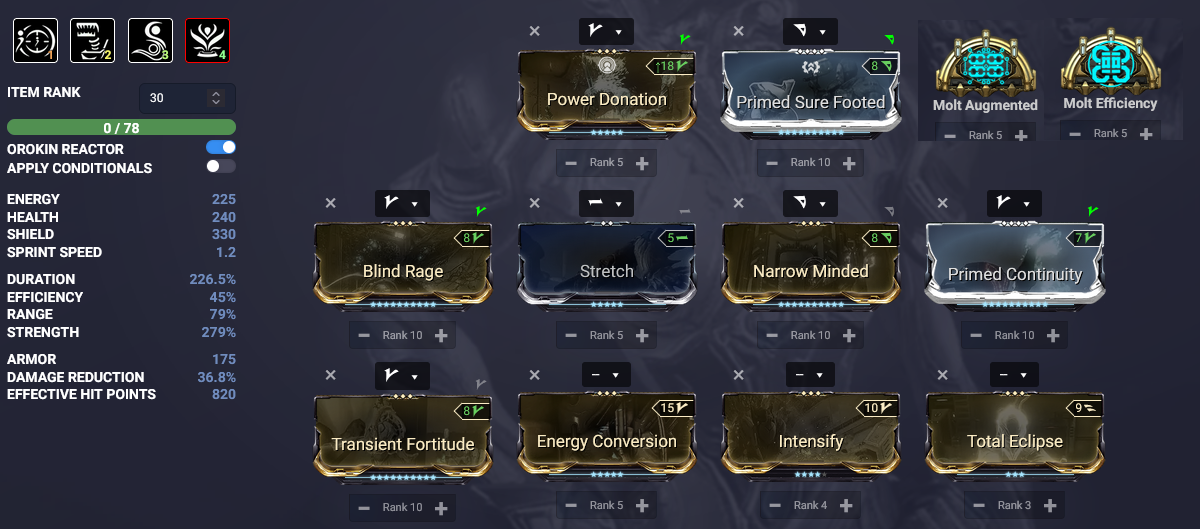
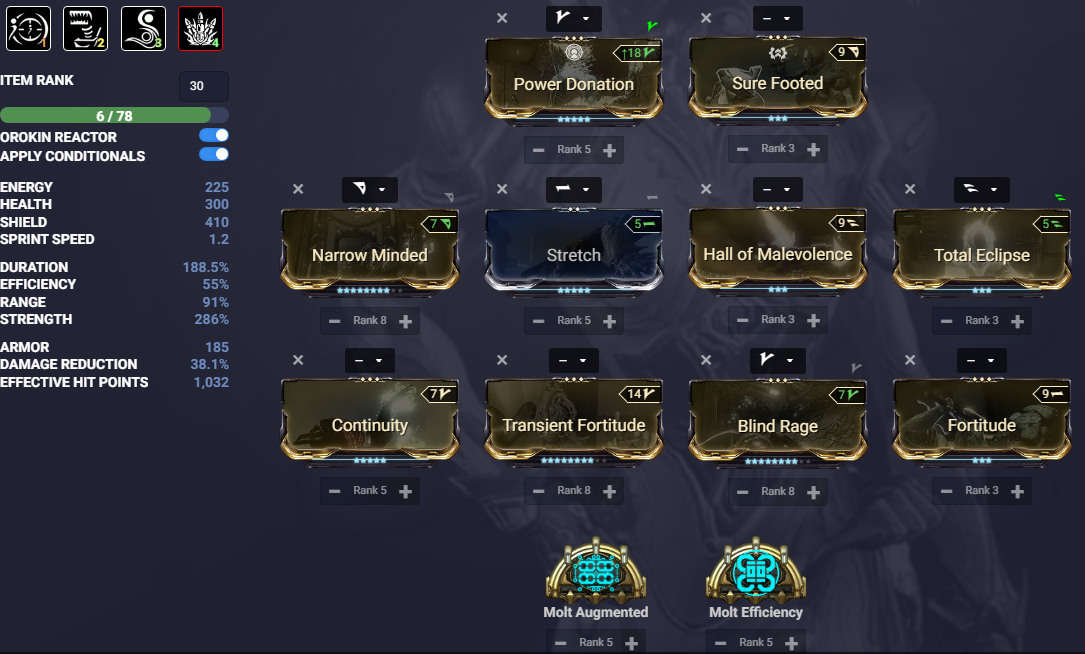
Koumei release (#4)
* Koumei and Five Fates Update

Added minimum requirement builds and  replaced Smeeta with Sly Vulpaphyla build.

* Update FocusSchools.md

diff --git a/_guides/Arbitrations/Summary.md b/_guides/Arbitrations/Summary.md
@@ -1,11 +1,17 @@
 # Summary
 ## Basic Strategy
 
-The goal of [Arbitrations] is to kill enemies as quickly as you can after they spawn, as more kills per minute will equal more [Vitus Essence]. [Arbitration Drones][Arbitration Shield Drone] (which drop vitus essence) will spawn up to a maximum of 5 alive on the map at once, so **fast kills = more loot** and that's the gist of it. You'll be running a lot of Power strength + Ability duration and applying a lot of buffs to yourself and your team so even in very long runs you'll still be killing every enemy with one shot. Your team will set up on one point of the map from where you can see all spawns and you'll shoot at enemy spawn points from that point of the map, everyone will stay at this point of the map and only leave to go pick up loot between rounds after which you will come back to this point of the map to refresh all your buffs. Sometimes people will also have to run to a spawn and shoot at it if enemies are slow to leave or if the Ai gets stuck and stops moving. You’ll understand more as you play, so don’t be afraid to join up with people once you’ve got your builds straight.
+The goal of [Arbitrations] is to kill enemies as quickly as you can after they spawn, as more kills per minute will equal more [Vitus Essence]. [Arbitration Drones][Arbitration Shield Drone] (which drop vitus essence) will spawn up to a maximum of 5 alive on the map at once, so **fast kills = more loot** and that's the gist of it. You'll be running a lot of Power strength + Ability duration and applying a lot of buffs to yourself and your team so even in very long runs you'll still be killing every enemy with one shot. Your team will set up on one point of the map from where you can see all spawns and you'll shoot at enemy spawn points from that point of the map, everyone will stay at this point of the map and only leave to go pick up loot between rounds after which you will come back to this point of the map to refresh all your buffs. 
 
-The 4 main meta frames for Arbitrations are: [Saryn] (The main damage dealer), [Mirage] (Buffer + secondary damage dealer), [Chroma] (Another buffer + secondary damage dealer) and [Wisp] (A support buffer frame who will also run a support weapon that buffs your team, [Afentis] + [Sporelacer] so pick one frame to start off with and slowly try to build all of them up so you can fill in more roles for different teams you play with. The Kuva Ogris is the only weapon that's currently good for Arbitrations, as with the [Nightwatch Napalm] Augment it will leave an AOE that will keep killing enemies on spawn so that's what you'll be running on every frame that's not wisp. Make sure you enter runs AFTER you've fully built out one of these roles as incomplete builds can ruin runs.
+This guide contains some minimum requirement builds and min-maxed builds for the meta warframes.
 
-To make sure you’re getting the most out of your runs, please don’t forget to equip a [Smeeta Kavat], buy a resource booster which doubles the amount of resources you pick up as well as make sure someone on your squad has a resource drop chance booster. You can also get a resource drop chance blessing from relays if a Mastery Rank 30 player decides to give it to people, so if your teammate is MR 30 or if you’re okay to ask around in relays and wait 5 minutes then it’s well worth it to have that as well, and only the HOST needs the resource drop chance blessing.
+The 4 main meta frames for Arbitrations are: 
+ - [Saryn] (The main damage dealer) Advanced
+ - [Mirage] (Buffer + secondary damage dealer) Advanced
+ - [Chroma] (Another buffer + secondary damage dealer) Beginner friendly
+ - [Wisp] (A support buffer frame who will also run a support weapon that buffs your team) Beginner friendly
+ 
+To get more out of your Arbi's you should run with a resource booster and have a companion with [Resourceful Retriever], get a dropchance blessing before the run and have atleast 1 player with a dropchance booster in your squad. 
 
 Don't press Tab during Arbi to view the Scoreboard since this can cause Hostmigrations
 {: .important }

diff --git a/_guides/Arbitrations/index.md b/_guides/Arbitrations/index.md
@@ -30,7 +30,7 @@ Saryn and Mirage should only be played by more experienced players since almost 
 {% include_relative Frames/Mirage.md %}
 {% include_relative Frames/Chroma.md %}
 {% include_relative Frames/Wisp.md %}
-{% include_relative Frames/Volt.md %}
+
 
 # Weapons
 
@@ -44,16 +44,16 @@ Saryn and Mirage should only be played by more experienced players since almost 
 ### Secondary Advice 
 If you have [Amalgam Barrel Diffusion], make sure to pop it on whatever secondary you’re running as it gives a good parkour velocity boost when you’re rolling which really helps with looting fast.
 # Companions
-## Smeeta Kavat
-The [Smeeta Kavat](https://warframe.fandom.com/wiki/Smeeta_Kavat){:target="_blank"} can potentially be very good and help boost Vitus essence anywhere from 10% to 50% in a good run, always run this if you have it. 
-[Charm], [Animal Instinct], [Tek Enhance] and [Fetch] are the mandatory mods, Tek assault is optional but can be very nice to have.
+You can run any beast companion with the [Resourceful Retriever] mod equiped, but bond mods can give additional utility.
 
-### Basic Build
-![](media/builds_smeeta_basic.png)
+## Sly Vulpaphyla
+Sadly Martyr Symbiosis doesn't work in Arbi's, but the Sly Vulpaphyla also has [Survival Instinct] which basically gives you a mini Wisp passive boosting your survivability while looting a bit.
 
-### Advanced Build
-This build is more expensive but gives some additional utility
-![](media/builds_smeeta_advanced.png)
+### Companion Build
+
+This build is optional, but it gives some nice additional buffs and helps a bit with survivability.
+![](media/builds_sly_basic.png)
+
 
 # Gear
 Having [Energy Restore Pads] and [Ammo Restore Pads] can come in clutch sometimes as well so make sure you’re stocked up on plenty of those. You can get 100x restore blueprints from the different labs in the dojo. 
@@ -66,7 +66,7 @@ The specters used are Ancient Healer Specter and [Nidus] Specter for [Parasitic 
 Mods do not apply to Specters
 {: .reminder }
 
-For weapons ensure you use [Battery Weapons] on them so that they don't take ammo away from you. Besides that weapon choice doesn't really matter as you’ll really just be using them for their abilities. 
+For weapons ensure you use [Battery Weapons] like the Shedu and Cycron on them so that they don't take ammo away from you. Besides that weapon choice doesn't really matter as you’ll really just be using them for their abilities. 
 
 
 
@@ -179,9 +179,13 @@ Interception: <https://www.youtube.com/watch?v=dDERzXZsaec>
 {:target="_blank"}
 [Archon Intensify]:https://warframe.fandom.com/wiki/Archon_Intensify
 {:target="_blank"}
-[Pathogen Rounds]:https://warframe.fandom.com/wiki/Pathogen_Rounds
+[Infected Clip]:https://warframe.fandom.com/wiki/Infected_Clip
 {:target="_blank"}
 [Mantis]:https://warframe.fandom.com/wiki/Mantis
 {:target="_blank"}
 [Praedos]:https://warframe.fandom.com/wiki/Praedos
+{:target="_blank"}
+[Resourceful Retriever]:https://warframe.fandom.com/wiki/Resourceful_Retriever
+{:target="_blank"}
+[Survival Instinct]:https://warframe.fandom.com/wiki/Survival_Instinct
 {:target="_blank"}

diff --git a/_guides/Arbitrations/Weapons/Ogris.md b/_guides/Arbitrations/Weapons/Ogris.md
@@ -1,12 +1,25 @@
 ## Kuva Ogris
-For Arbitrations we currently use a Toxin Progenitor to create corrosive damage on Mirage with a single purple shard and buff the damage for toxic lash napalm for Saryn. Riven is not required at all. Make sure to equip the bane mod since it’s a must have. Non-primed bane is fine too. [Nightwatch Napalm] leaves lingering AOE damage zones, these will kill enemies on spawn as long as you’re firing at the spawn points which makes this the best weapon for Arbitrations.
+For Arbitrations we currently use a Toxin Progenitor to create corrosive damage on Mirage with a single purple shard. 
+A Riven is not required at all and if you have a Riven replace Vigilante Armaments. 
+Make sure to equip the bane mod since it’s a must have. Non-primed bane is fine too. 
+[Nightwatch Napalm] leaves lingering AOE damage zones, these will kill enemies on spawn as long as you’re firing at the spawn points which makes this the best weapon for Arbitrations.
 MAKE SURE YOUR OGRIS ENERGY COLOR IS PURE BLACK, or you’ll blind all your teammates with the visual effect
 
 
-### Build for Mirage and Chroma
+### Basic Build for Mirage and Chroma
+![](media/builds_ogris_mirage_chroma_basic.png)
+
+The Min-Maxed Build for Mirage and Chroma has 1 more shot in the magazine resulting in 4 more shots for Mirage.
+
+### Min-Maxed Build for Mirage and Chroma
 ![](media/builds_ogris_mirage_chroma.png)
 
-The diffrence between the Ogris builds is that Saryn wants to mod for more toxin damage with [Pathogen Rounds] while Mirage uses the slot to get a better magazine size. 
 
-### Build for Saryn
+### Basic Build for Saryn
+
+The diffrence between the Ogris builds is that Saryn wants to mod for more toxin damage with [Infected Clip] while Mirage uses the slot to get a better magazine size. 
+
+![](media/builds_ogris_saryn_basic.png)
+
+### Min-Maxed Build for Saryn
 ![](media/builds_ogris_saryn.png)

diff --git a/_guides/Arbitrations/FocusSchools.md b/_guides/Arbitrations/FocusSchools.md
@@ -1,12 +1,10 @@
 # Focus schools
 
-You’ll either Run Madurai, Zenurik or Unairu based on what you have. The following will help you decide which focus school to run.
+You’ll either Run Madurai or Zenurik based on what you have. The following will help you decide which focus school to run.
 
 ## Madurai
 Best tree to run if you have primed sure footed and aren’t worried about getting staggered	 maxing out the “Sling Strength” node will give you 40% power strength for 20 seconds when you dash twice in operator mode which is great if you’re doing super long runs or if your power strength mods aren’t maxed out yet.
-
-## Unairu
-If you don’t have Primed sure footed (PSF), the starting node in Unairu “Poise” will give you stagger resistance for 40 seconds when you transfer from your frame to your operator. This is essential to run if you don’t have PSF as getting staggered constantly will lead to either your death or much slower clear times.
+(Mandatory for [Wisp])
 
 ## Zenurik 
-If you’ve already invested into Zenurik for general gameplay and have Primed sure footed then “Wellspring” node will give your team energy regen which can be nice and “Hardened wellspring” node will give your entire team 20% power strength, very nice if you haven’t invested into madurai and have PSF already (One person in your squad should run this to buff the team)
+If you’ve already invested into Zenurik for general gameplay and have Primed sure footed then “Wellspring” node will give your team energy regen which can be nice and “Hardened wellspring” node will give your entire team 20% power strength, very nice if you haven’t invested into madurai and have PSF already (One player should run this. It should be either [Saryn] or [Mirage])

diff --git a/_guides/Arbitrations/Frames/Wisp.md b/_guides/Arbitrations/Frames/Wisp.md
@@ -9,12 +9,11 @@ Place your [Nidus Specter][Specters] and wait for it to tether you
 Stack up [Arcane Power Ramp] by using 2 and 3
 Use an operator ability to trigger [Molt Vigor]
 Get energy orb
-Put down a health mote
+Put down a haste mote
 Get energy orb
-Place another [Nidus Specter][Specters] and wait for it to tether you so you get the [Archon Intensify] bonus strength
 DD with operator for Madurai Sling strength
 Use an operator ability to trigger [Molt Vigor]
-Put down a haste mote
+Put down a health mote
 
 After Mote Setup repeat this:
 DD with operator for Madurai Sling strength
@@ -32,8 +31,12 @@ Subsume on your 4th ability
 * Roar
 [Roar] ([Rhino]) grants a massive damage buff to your entire team
 
-### Builds
-#### Basic Build
+
+### Basic Build
+This build will result in 180% haste motes if you do your setup correctly.
+![](media/builds_wisp_basic.png)
+
+### Min-Maxed Build
 ![](media/builds_wisp.png)
 
 ### Archon Shards

diff --git a/_guides/Arbitrations/Frames/Chroma.md b/_guides/Arbitrations/Frames/Chroma.md
@@ -6,6 +6,8 @@ On Defense you can run either Vazarin or Madurai
 On Interception you run Madurai
 Madurai for more ability strength and Vazarin to bodyguard the Defense Operator in the later waves of the game
 
+Make sure to use toxin ward for the reload speed and damage boost
+
 Throw down a [Nidus Specter][Specters] and wait for him to tether to you
 Double Dash with operator if you’re running Madurai cast Contamination Wave (Madurai 2) or any of the 2 abilitys on Vazarin in Operator for [Molt Vigor]
 Get energy orb
@@ -20,12 +22,15 @@ Cast 4
 ### Subsume 
 Subsume Dispensery on your 4th ability
 
-### Builds
-#### Basic Build
+
+### Basic Build
+![](media/builds_chroma_basic.png)
+
+### Min-Maxed Build
 ![](media/builds_chroma.png)
 
 ### Archon Shards
 
 3x Strength
-
+2x Duration
 ![](media/shards_chroma.png)

diff --git a/_guides/Arbitrations/Weapons/Afentis.md b/_guides/Arbitrations/Weapons/Afentis.md
@@ -1,7 +1,7 @@
 ## Afentis
 Wisp will be running [Afentis](https://warframe.fandom.com/wiki/Afentis) to boost her team. Drop Afentis where your team camps and refresh the buff when it’s about to run out, you get Afentis from rank 5 Kahl garrison so if you don’t have that, just use the [Kuva Ogris] and DPS with your team
 
-Chroma sometimes takes an additional [Afentis](https://warframe.fandom.com/wiki/Afentis) since he won't really be able to kill much in good squads with the Ogris anyways.
+Chroma sometimes takes an additional [Afentis](https://warframe.fandom.com/wiki/Afentis) since he won't be able to kill much in good squads with the Ogris anyways.
 {: .important }
 
 ### Basic Build

diff --git a/_guides/Arbitrations/Weapons/Sporelancer.md b/_guides/Arbitrations/Weapons/Sporelancer.md
@@ -1,10 +1,13 @@
 ## Sporelacer
 [Sporelacer](https://warframe.fandom.com/wiki/Sporelacer) is good as a secondary it helps you clear out spawns and still help your team with killing enemies if you’re running [Afentis] as your primary weapon]
 
-### Basic build for Wisp and Chroma
+### Basic Build for Wisp and Chroma
+![](media/builds_kitgun_wisp_chroma_basic.png)
+
+### Min-Maxed Build for Wisp and Chroma
 ![](media/builds_kitgun_wisp_chroma.png)
 
-### Statstick build for Saryn and Mirage
+### Statstick Build for Saryn and Mirage
 
 This build is fully optional but adds some utility through set effects
 ![](media/builds_kitgun_saryn_mirage.png)

diff --git a/_guides/Arbitrations/Frames/Mirage.md b/_guides/Arbitrations/Frames/Mirage.md
@@ -15,8 +15,11 @@ Subsume on your 4th ability
 * Energized Munitions
 [Energized Munitions] helps with the constant ammo required to quickly spam your Ogris at the spawns.
 
-### Builds
-#### Basic Build
+
+### Basic Build
+![](media/builds_mirage_basic.png)
+
+### Min-Maxed Build
 ![](media/builds_mirage.png)
 
 ### Archon Shards

diff --git a/_guides/Arbitrations/Frames/Saryn.md b/_guides/Arbitrations/Frames/Saryn.md
@@ -17,8 +17,11 @@ Subsume on your 4th ability
 * Energized Munitions
 [Energized Munitions] helps with the constant ammo required to quickly spam your Ogris at the spawns.
 
-### Builds
-#### Basic Build
+
+### Basic Build
+![](media/builds_saryn_basic.png)
+
+### Min-Maxed Build
 ![](media/builds_saryn.png)
 
 ### Archon Shards

diff --git a/_guides/Arbitrations/Weapons/Praedos.md b/_guides/Arbitrations/Weapons/Praedos.md
@@ -8,7 +8,7 @@ Evolution IV: Evolved Ascension (Parkour Velocity)
 
 The other Evolutions are personal perferance.
 
-### Statstick build
+### Statstick Build
 
 This build is fully optional but adds some utily
 ![](media/builds_praedos.png)
